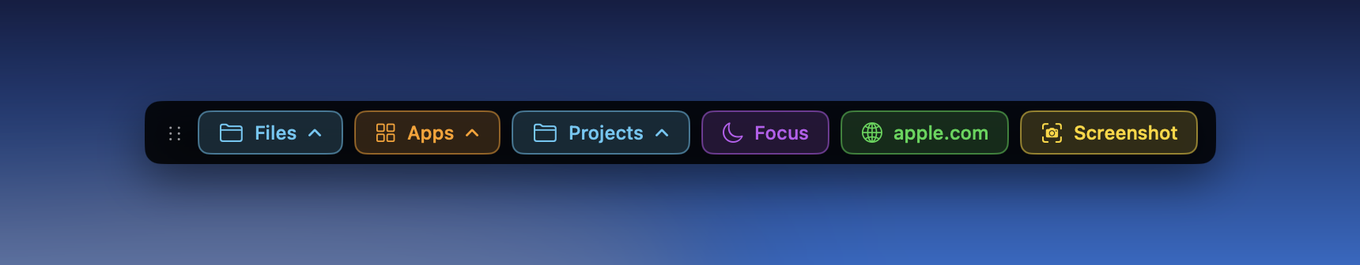
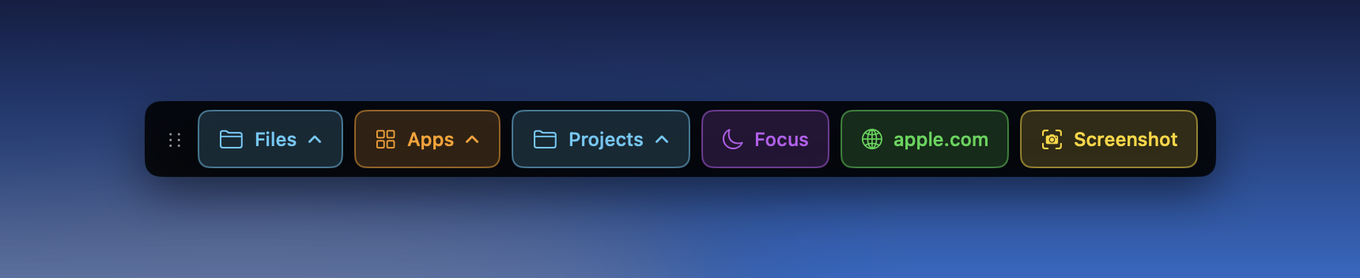
BarDeck page for 1.2 features (NOT pushed): Now Playing, stocks, Compact/Normal, refreshed screenshots, permissions

diff --git a/bardeck/index.html b/bardeck/index.html
@@ -61,7 +61,7 @@
 </div>
 
 <figure class="shot">
-  <img src="img/1-the-bar.png" alt="The BarDeck button bar: Files, Apps, Projects, Focus, apple.com and Screenshot buttons in colour-coded groups" width="1360" height="265">
+  <img src="img/1-the-bar.png" alt="The BarDeck button bar: Files, Apps, Projects, Focus, apple.com and Screenshot buttons in colour-coded groups" width="1360" height="278">
 </figure>
 
 <div class="cta">
@@ -85,6 +85,9 @@
   <li><strong>Ready-made sets.</strong> One click adds a set for Mail, Safari, Finder, Terminal, Messages, Photos, Excel, Word, Zoom, Teams, Final Cut Pro or Music, and one click removes it again.</li>
   <li><strong>Easy to arrange.</strong> Drag buttons to reorder them, drag them into and out of stacks, and drop an app, folder, file or web link on the bar to make a button. Drop a file on an app button to open it with that app.</li>
   <li><strong>Touch Bar-style controls.</strong> Add a volume slider, a brightness slider, play/pause, next and previous track, mute, buttons for Music and Spotify, and an emoji picker, each in one click from the right-click menu.</li>
+  <li><strong>Now Playing.</strong> A button that shows the track, artist and cover art from Apple Music, Spotify, Qobuz or a Sonos speaker on your network, and plays or pauses with a tap.</li>
+  <li><strong>Stock prices.</strong> A button for any share or index, with the day&#8217;s change and a small chart. Quotes are delayed, and a tap opens the stock in Yahoo Finance.</li>
+  <li><strong>Compact or Normal.</strong> Every button shares one height, and you can switch the whole bar to a larger Normal size from the right-click menu.</li>
   <li><strong>Share a setup.</strong> Export your whole layout, or just one stack or one app's set, and import other people's. Your licence is never included, and you can remove personal details before sharing.</li>
   <li><strong>Stays out of the way.</strong> Auto-hide, a hotkey to show and hide it, a menu bar icon, and it remembers where you put it.</li>
   <li><strong>Safe to experiment.</strong> Undo your last changes, lock buttons so they cannot be moved or removed, and automatic backups you can restore from.</li>
@@ -93,23 +96,33 @@
 <h2>See it</h2>
 
 <figure class="shot">
-  <img src="img/2-stack.png" alt="A stack opening above the bar to show Downloads, Documents, Desktop and New Folder" loading="lazy" width="1360" height="498">
+  <img src="img/2-stack.png" alt="A stack opening above the bar to show Downloads, Documents, Desktop and New Folder" loading="lazy" width="1360" height="566">
   <figcaption>A stack flies out above the bar (or below it, if you keep the bar at the top of the screen).</figcaption>
 </figure>
 
 <figure class="shot">
-  <img src="img/3-browse-folder.png" alt="A folder button showing the folders and files inside it, with their icons" loading="lazy" width="1360" height="823">
+  <img src="img/3-browse-folder.png" alt="A folder button showing the folders and files inside it, with their icons" loading="lazy" width="1360" height="964">
   <figcaption>A folder button lets you browse inside it, step into sub-folders, or open the folder in Finder.</figcaption>
 </figure>
 
 <figure class="shot wide">
-  <img src="img/4-per-app-mail.png" alt="After a divider, a set of Mail buttons: New Message, Get Mail, Reply, Reply All, Forward, Archive, Junk and Flag" loading="lazy" width="1920" height="275">
+  <img src="img/4-per-app-mail.png" alt="After a divider, a set of Mail buttons: New Message, Get Mail, Reply, Reply All, Forward, Archive, Junk and Flag" loading="lazy" width="1920" height="288">
   <figcaption>Buttons that follow the app you are using. With Mail in front, its own set appears after the divider.</figcaption>
 </figure>
 
 <figure class="shot wide">
-  <img src="img/6-controls.png" alt="The bar with a volume slider, a brightness slider, a play/pause button and an emoji picker" loading="lazy" width="1700" height="298">
+  <img src="img/6-controls.png" alt="The bar with a volume slider, a brightness slider, a play/pause button and an emoji picker" loading="lazy" width="1700" height="312">
   <figcaption>Touch Bar-style controls: volume and brightness sliders, media buttons and an emoji picker.</figcaption>
+</figure>
+
+<figure class="shot wide">
+  <img src="img/11-now-playing.png" alt="Three Now Playing buttons showing a track, artist and cover art for Apple Music, a Sonos speaker and Qobuz" loading="lazy" width="1882" height="352">
+  <figcaption>Now Playing buttons show what is playing, with cover art, for Apple Music, Spotify, Qobuz and Sonos. Tap to play or pause.</figcaption>
+</figure>
+
+<figure class="shot wide">
+  <img src="img/12-stocks.png" alt="Four stock buttons with prices, daily change and a small chart: Apple, FTSE 100, S&amp;P 500 and BP" loading="lazy" width="1720" height="352">
+  <figcaption>Stock buttons show a delayed price, the day&#8217;s change and a small chart for any share or index.</figcaption>
 </figure>
 
 <figure class="shot">
@@ -124,7 +137,9 @@
 <p>BarDeck asks only when you use a feature that needs it, and everything else works without them.</p>
 <ul>
   <li><strong>Accessibility</strong>, for the <em>press keys</em> and <em>paste text</em> buttons, which work by sending keystrokes to the app in front.</li>
-  <li><strong>Automation</strong>, for the <em>New Folder</em> button, which asks Finder to create a folder in the window you have open.</li>
+  <li><strong>Automation</strong>, for the <em>New Folder</em> button, which asks Finder to create a folder in the window you have open, and for the Apple Music and Spotify buttons, which ask to read and control those apps.</li>
+  <li><strong>Accessibility</strong> is also used by the Qobuz Now Playing button, which reads the track shown in the Qobuz window.</li>
+  <li><strong>Local network</strong>, for the Sonos Now Playing button, which looks for speakers on your network. Stock buttons ask Yahoo Finance for delayed quotes over the internet.</li>
 </ul>
 
 <h2>Private by design</h2>
